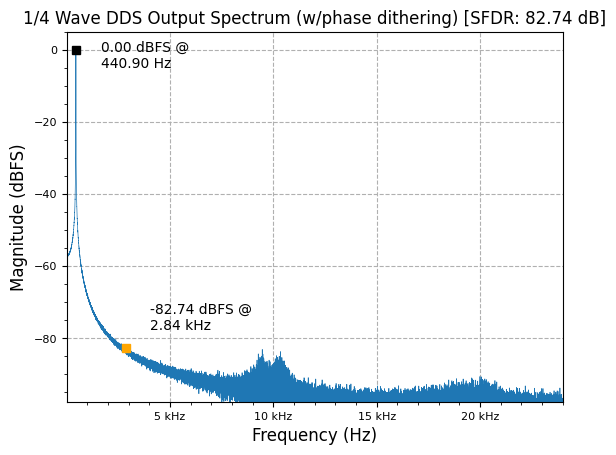
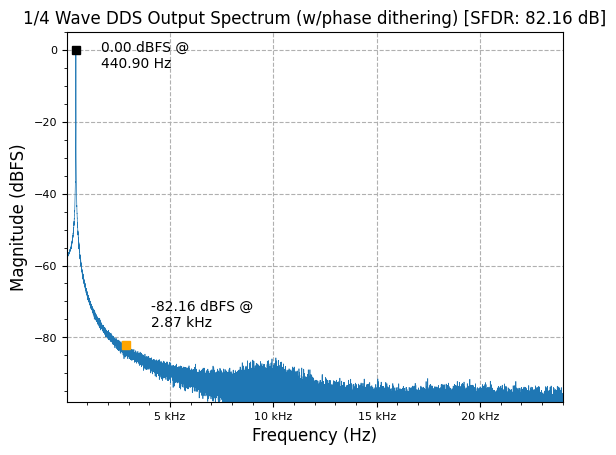
re-style

diff --git a/assets/style/main.css b/assets/style/main.css
@@ -133,20 +133,17 @@ body,
 .doc-sidebar .section-name,
 .card,
 .searchbar input {
-  font-weight: 300;
   text-transform: none
 }
 
 body,
 .card {
-  font-size: 20px;
   line-height: 28px
 }
 
 @media only screen and (max-width: 956px) {
   body,
   .card {
-    font-size: 16px;
     line-height: 26px
   }
 }
@@ -158,7 +155,6 @@ body,
 .doc-sidebar .section-name,
 .searchbar input {
   color: #333;
-  font-size: 14px;
   line-height: 1.3
 }
 
@@ -289,6 +285,7 @@ body {
 body {
   color: #000;
   font-family: "Roboto", sans-serif;
+  font-weight: 300;
   -webkit-text-size-adjust: none;
   -webkit-font-smoothing: antialiased;
   /*padding-top: 10px*/
@@ -312,14 +309,13 @@ h4,
 h5,
 h6 {
   color: #000;
-  font-weight: 300;
+  font-weight: 100;
   margin: 0.25em 0
 }
 
 h1,
 h2.h1 {
   font-size: 50px;
-  font-weight: 100;
   line-height: 65px
 }
 
@@ -334,14 +330,12 @@ h2.h1 {
 h2 {
   font-size: 40px;
   line-height: 50px;
-  font-weight: 100
 }
 
 @media only screen and (max-width: 956px) {
   h2 {
     font-size: 26px;
     line-height: 20px;
-    font-weight: 300
   }
 }
 
@@ -2584,7 +2578,7 @@ footer .footer-privacy {
   html th,
   body th,
   .main {
-    background-color: #2d2d2d;
+    background-color: #151719;
     color: #e4e4e4;
   }
 

diff --git a/_layouts/default.html b/_layouts/default.html
@@ -61,7 +61,7 @@
     <link href="https://fonts.googleapis.com/css?family=Roboto:100,300,400" rel="stylesheet">
 
     <!-- tabbed MDL styles -->
-    <link rel = "stylesheet" href = "/assets/style/material.indigo-pink.min.css">
+    <!--<link rel = "stylesheet" href = "/assets/style/material.indigo-pink.min.css">-->
     <script src = "/assets/scripts/material.min.js"> </script>
     <link rel = "stylesheet" href = "https://fonts.googleapis.com/icon?family=Material+Icons">
 

diff --git a/learning_bookmarks.md b/learning_bookmarks.md
@@ -469,6 +469,7 @@ dsp-math-ml
             [GEL7014 - YouTube](https://www.youtube.com/playlist?list=PLhuyL7rSIf-iObU-kjZbSyyWPy77nY2X_)
             [Tutorials on Digital Communications Engineering – Complex To Real](https://complextoreal.com/tutorials/)
             [Principles of Modern CDMA/ MIMO/ OFDM Wireless Communications - YouTube](https://www.youtube.com/playlist?list=PLTgNKd4RxFTY_rhPBYyFJ-qVwMHNgebJe)
+            [OFDM YouTube Playlist](https://www.youtube.com/watch?v=F6B4Kyj2rLw&list=PLx7-Q20A1VYIvtMUWX3yd_sQGbQx1qPGP)
             [OTFS - Orthogonal Time Frequency Space](https://arxiv.org/pdf/1608.02993)
             [An introduction to Orthogonal Time Frequency Space (OTFS) modulation for high mobility communications](https://users.monash.edu/~gfarr/research/slides/Viterbo_Nov_2019___OTFS_modulation.pdf)
             [ha7ilm/csdr: A simple DSP library and command-line tool for Software Defined Radio.](https://github.com/ha7ilm/csdr)
@@ -513,6 +514,7 @@ dsp-math-ml
             [Beamforming - Wikipedia](https://en.wikipedia.org/wiki/Beamforming)
             [MUSIC (algorithm) - Wikipedia](https://en.wikipedia.org/wiki/MUSIC_(algorithm))
             [HF Radar Tracking with MUSIC and Kalman filter Python](https://spenderaedsystems.blogspot.com/2024/08/high-speed-target-tracking-method-for.html)
+            [FDA Jamming Against Airborne Phased-MIMO Radar-Part I: Matched Filtering and Spatial Filtering](https://spenderaedsystems.blogspot.com/2024/08/fda-jamming-against-airborne-phased_8.html?m=1)
             [SAMV (algorithm) - Wikipedia](https://en.wikipedia.org/wiki/SAMV_(algorithm))
             [Active electronically scanned array - Wikipedia](https://en.wikipedia.org/wiki/Active_electronically_scanned_array)
             [Radar Basics](https://www.radartutorial.eu/index.en.html)
@@ -594,6 +596,7 @@ dsp-math-ml
             [Cyclostationarity Home Page and Website Overview](https://cyclostationarity.com/)
             [What You Need to Know About Real Time Spectrum Analysis | Signal Hound](https://signalhound.com/news/what-you-need-to-know-about-real-time-spectrum-analysis/)
             [Time-Frequency Gallery - MATLAB &amp; Simulink](https://www.mathworks.com/help/signal/ug/time-frequency-gallery.html#responsive_offcanvas)
+            [Spectrum Painter](https://github.com/polygon/spectrum_painter)
             [Reassignment method - Wikipedia](https://en.wikipedia.org/wiki/Reassignment_method)
             [Reassigned Spectrogram](https://people.ece.cornell.edu/land/PROJECTS/ReassignFFT/index.html)
             [librosa.reassigned_spectrogram — librosa 0.9.1 documentation](https://librosa.org/doc/0.9.1/generated/librosa.reassigned_spectrogram.html)
@@ -1674,6 +1677,7 @@ vhdl-digital
             [FIR filter design for complex signal - Signal Processing Stack Exchange](https://dsp.stackexchange.com/questions/33933/fir-filter-design-for-complex-signal)
             [AN 455: Understanding CIC Compensation Filters](https://www.intel.com/content/dam/www/programmable/us/en/pdfs/literature/an/an455.pdf)
             [Maximally Decimated Polyphase Channelizer Help - DSP related](https://www.dsprelated.com/thread/17276/maximally-decimated-polyphase-channelizer-help)
+            [Use of DFT for Decimating Channelizers](https://dsp.stackexchange.com/questions/87697/use-of-dft-for-decimating-channelizers)
             [Xilinx XAPP1161 Polyphase Filter Bank Channelizer, v1.0, Application Note](https://www.xilinx.com/support/documentation/application_notes/xapp1161.pdf)
             [Review of Polyphase Filter Banks and Applications- AFRL](https://apps.dtic.mil/dtic/tr/fulltext/u2/a457390.pdf)
             [GRCon18 - Improving the RFNoC Polyphase Channelizer - YouTube](https://www.youtube.com/watch?v=WRO9VD6MYy4)

diff --git a/kb/dsp/NCO_DDS.md b/kb/dsp/NCO_DDS.md
@@ -143,7 +143,7 @@ The DDS Output Spectrum can be shown as
 
 
 ```python
-plot.spec_an(y, fs, "DDS Output Spectrum", scale_noise=True, real=True, norm=True)
+plot.spec_an(y, fs, "DDS Output Spectrum", scale_noise=True, norm=True)
 plt.show()
 ```
 
@@ -205,7 +205,7 @@ plt.show()
 
 
 ```python
-plot.spec_an(y, fs, "1/4 Wave DDS Output Spectrum", scale_noise=True, real=True, norm=True)
+plot.spec_an(y, fs, "1/4 Wave DDS Output Spectrum", scale_noise=True, norm=True)
 plt.show()
 ```
 
@@ -231,7 +231,7 @@ for dither_bits in range(2, N - 4):
     dith_NCO.SetOutputFreq(f)
     for i in range (n):
         y_dith[i] = np.imag(dith_NCO.Step())
-    dSFDR = measurements.SFDR(y_dith, fs, real=True, norm=True)
+    dSFDR = measurements.SFDR(y_dith, fs, norm=True)
     meas_SFDR = dSFDR["SFDR"]
     dither_SFDR.append(meas_SFDR)
     if meas_SFDR > max_SFDR:
@@ -247,7 +247,7 @@ dith_NCO = nco.Nco(N, M, P, fs, quarter_wave=True, dither=True, dither_bits=max_
 dith_NCO.SetOutputFreq(f)
 for i in range (n):
     y_dith[i] = np.imag(dith_NCO.Step())
-plot.spec_an(y_dith, fs, "1/4 Wave DDS Output Spectrum (w/phase dithering)", scale_noise=True, real=True, norm=True)
+plot.spec_an(y_dith, fs, "1/4 Wave DDS Output Spectrum (w/phase dithering)", scale_noise=True, norm=True)
 plt.show()
 
 print(f"Best SFDR at {max_SFDR_bits} bits of added dither, given phase acc. length of {N} bits and {P} LUT address bits")
@@ -266,7 +266,7 @@ print(f"Best SFDR at {max_SFDR_bits} bits of added dither, given phase acc. leng
 
 
 <p style="font-family:monospace; white-space:pre-wrap">
-Best SFDR at 18 bits of added dither, given phase acc. length of 32 bits and 11 LUT address bits
+Best SFDR at 19 bits of added dither, given phase acc. length of 32 bits and 11 LUT address bits
 </p>
 
 
@@ -383,7 +383,7 @@ taylor_NCO.SetOutputFreq(12200)
 y_taylor = np.zeros(n) + 1j*np.zeros(n)
 for i in range (n):
     y_taylor[i] = taylor_NCO.Step()
-plot.spec_an(y_taylor, fs, "Taylor Series NCO", scale_noise=True, real=False, norm=True)
+plot.spec_an(y_taylor, fs, "Taylor Series NCO", scale_noise=True, norm=True)
 plt.show()
 ```
 

diff --git a/kb/dsp/Pulse-Shaping_Matched_Filters.md b/kb/dsp/Pulse-Shaping_Matched_Filters.md
@@ -24,7 +24,7 @@ from rfproto import filter, modulation, plot
 
 ```python
 # CCSDS OQPSK SRRC rolloff=0.5: https://public.ccsds.org/Pubs/413x0g3e1.pdf
-rrc_test = filter.RootRaisedCosine(17.225e6, 7.5e6, 0.5, 64)
+rrc_test = filter.RootRaisedCosine(17.225e6, 7.5e6, 0.5, 63)
 # The matched filter is a time-reversed and conjugated version of the signal
 # NOTE: this is moot for a uniform, real filter...
 rrc_mf = np.conj(rrc_test[::-1])
@@ -76,7 +76,7 @@ def pulse_shape(symbols: np.ndarray, OSR: int, h: np.ndarray):
     # truncate first samples due to prepend and apped to align output with input
     return conv_out[N * OSR:]
  
-rc_test = filter.RootRaisedCosine(L, 1, 0.25, 46)
+rc_test = filter.RootRaisedCosine(L, 1, 0.25, 45)
 qpsk_tx_filtered = pulse_shape(qpsk_symbols, L, rc_test)
 
 fig, ax = plt.subplots()
@@ -111,7 +111,7 @@ _,_ = plot.eye(qpsk_tx_filtered.real, L)
 
 
 ```python
-plot.spec_an(qpsk_tx_filtered, fs=L*1e6, fft_shift=True, show_SFDR=False)
+plot.spec_an(qpsk_tx_filtered, fs=L*1e6, fft_shift=True, show_SFDR=False, y_unit="dB")
 plt.show()
 ```
 
@@ -130,8 +130,9 @@ transient = (len(rc_test)//2 + 1) * L
 _,_ = plot.eye(rx_shaped.real[transient:], L )
 
 # adjust for best EVM, similar to slicer
-timing_offset = 3
-plot.IQ(qpsk_tx_filtered[transient + timing_offset::4])
+timing_offset = 4
+#plot.IQ(qpsk_tx_filtered[transient + timing_offset::4], alpha=0.3)
+plot.IQ(rx_shaped[transient + timing_offset::4], alpha=0.3)
 plt.show()
 ```
 

diff --git a/kb/programming_languages/rust.md b/kb/programming_languages/rust.md
@@ -103,6 +103,7 @@ Rust ships with a tool called [rustdoc](https://doc.rust-lang.org/rustdoc/what-i
 ### Async
 
 See [rust-async-framework](https://github.com/JohnnyGOX17/rust-async-framework) for more details and implementation examples.
+* [ ] [Rust Atomics and Locks: Low-Level Concurrency in Practice](https://marabos.nl/atomics/)
 
 #### References
 
